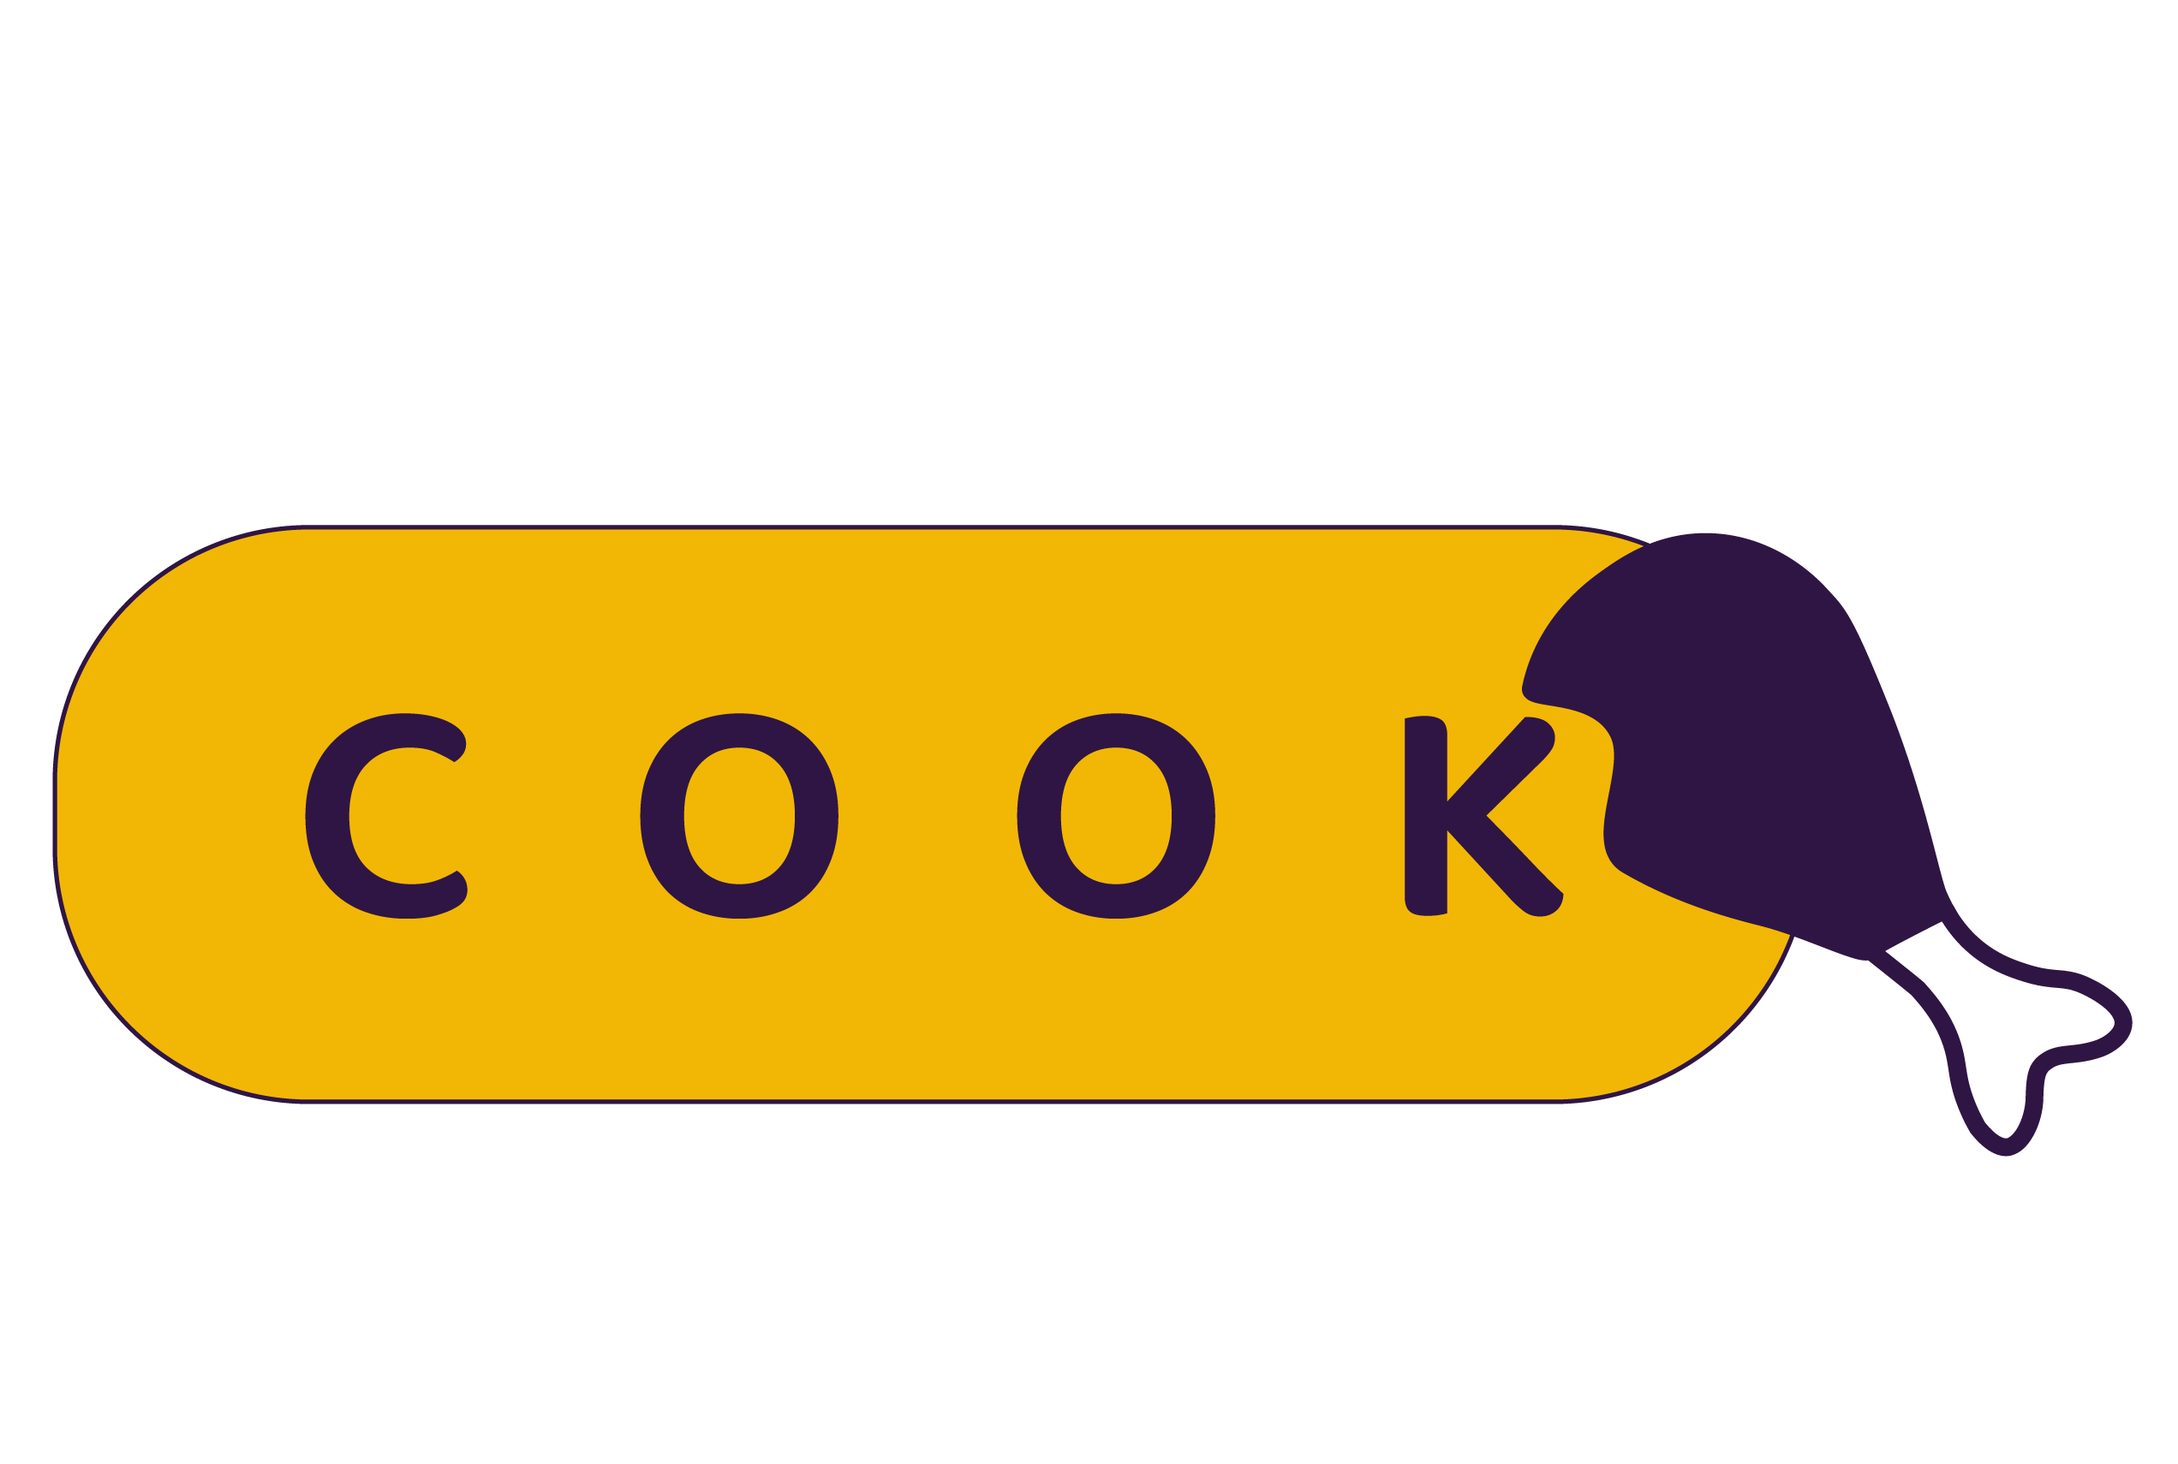
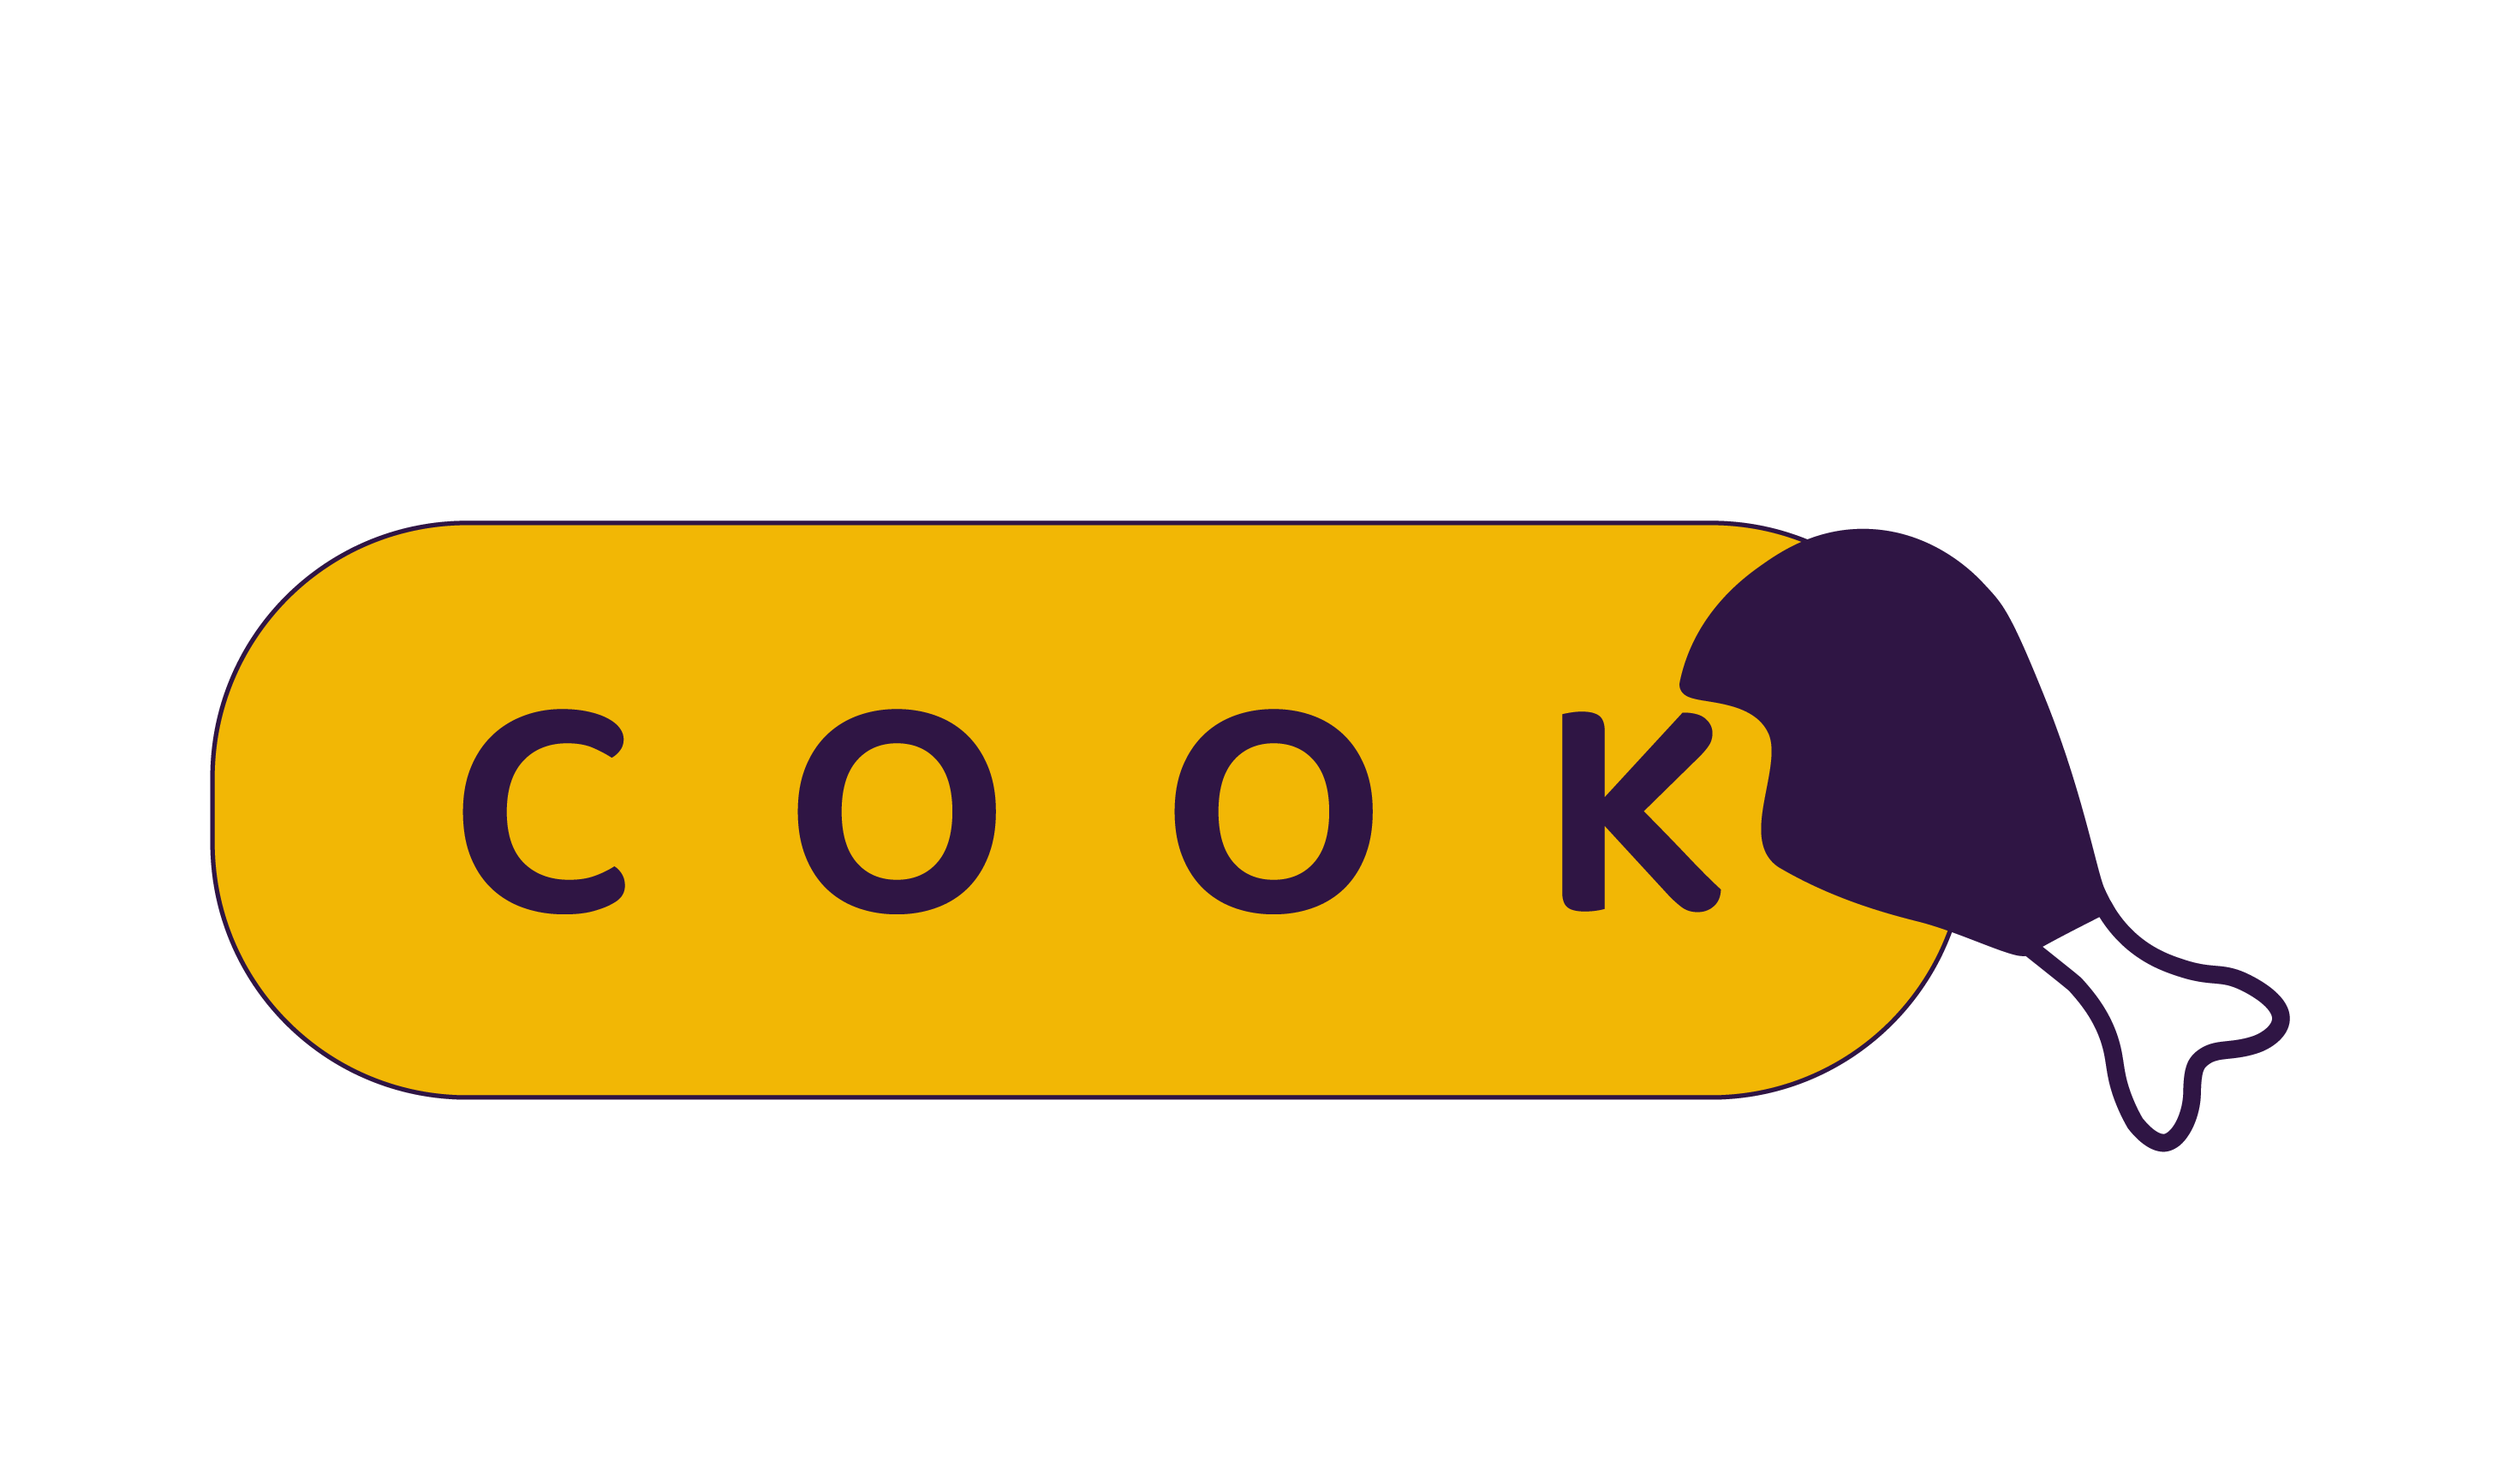
images trees and diets

diff --git a/public/index.html b/public/index.html
@@ -3,7 +3,7 @@
 
 <head>
   <meta charset="utf-8" />
-  <link rel="icon" type="image/png" href="./logo-666x666.png" />
+  <link rel="icon" type="image/png" href="./logo-512x512.png" />
   <meta name="viewport" content="width=device-width, initial-scale=1" />
   <meta name="theme-color" content="#000000" />
   <meta name="description" content="Recipe analyzer" />
